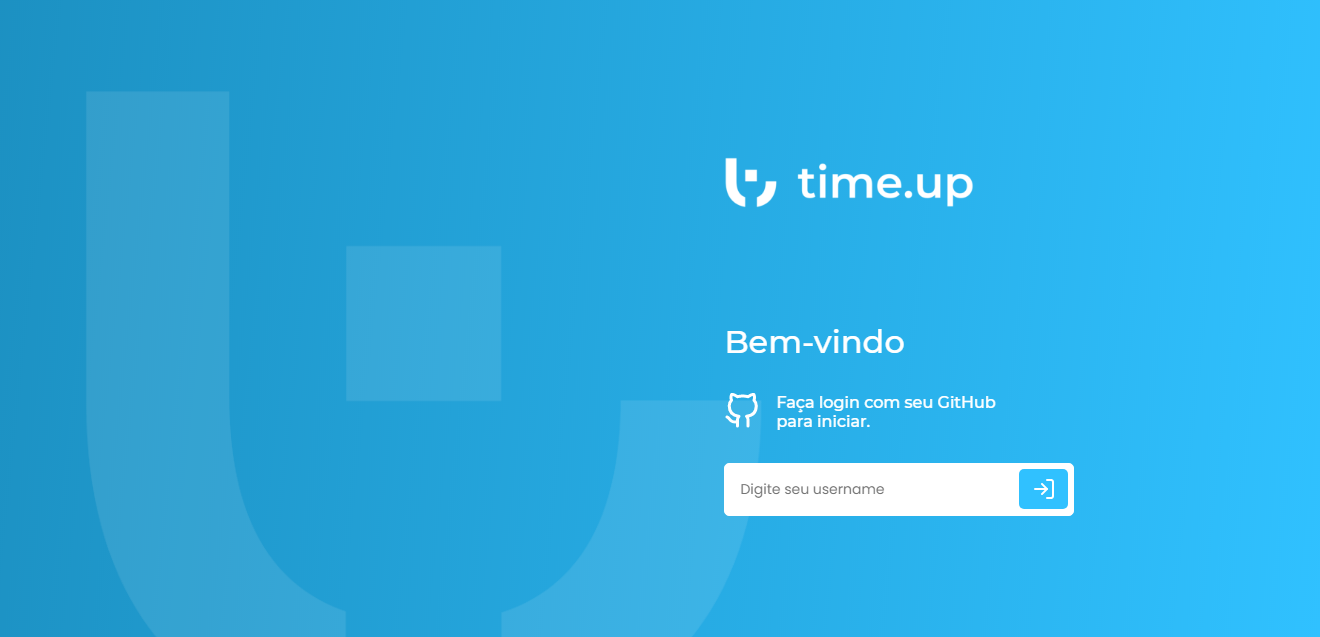
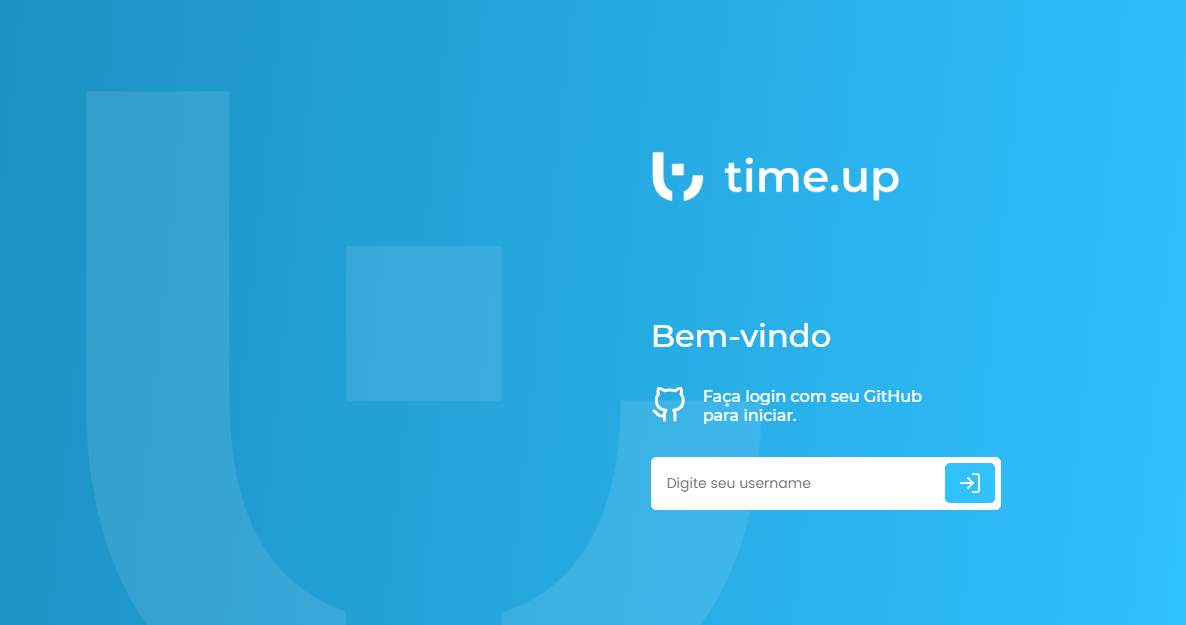
Editing README

Changed region(s): [[0.5304, 0.608, 0.8423, 0.8208], [0.5304, 0.2432, 0.7799, 0.3344], [0.5304, 0.5168, 0.7175, 0.5776]]

diff --git a/README.md b/README.md
@@ -13,7 +13,11 @@
 </p>
 
 <h1 align="center">
-  <img width="500" style="border-radius: 10px" height="auto" alt="level.up" title="Level Up" src="public/assets/homepage.png" />
+  <img width="500" style="border-radius: 10px" height="auto" alt="level.up" title="Level Up" src="public/assets/login.png" />
+  <img width="500" style="border-radius: 10px" height="auto" alt="level.up" title="Level Up" src="public/assets/home.png" />
+  <img width="500" style="border-radius: 10px" height="auto" alt="level.up" title="Level Up" src="public/assets/count.png" />
+  <img width="500" style="border-radius: 10px" height="auto" alt="level.up" title="Level Up" src="public/assets/challenge.png" />
+  <img width="500" style="border-radius: 10px" height="auto" alt="level.up" title="Level Up" src="public/assets/level.png" />
 </h1>
 
 <h4 align="center"> 
